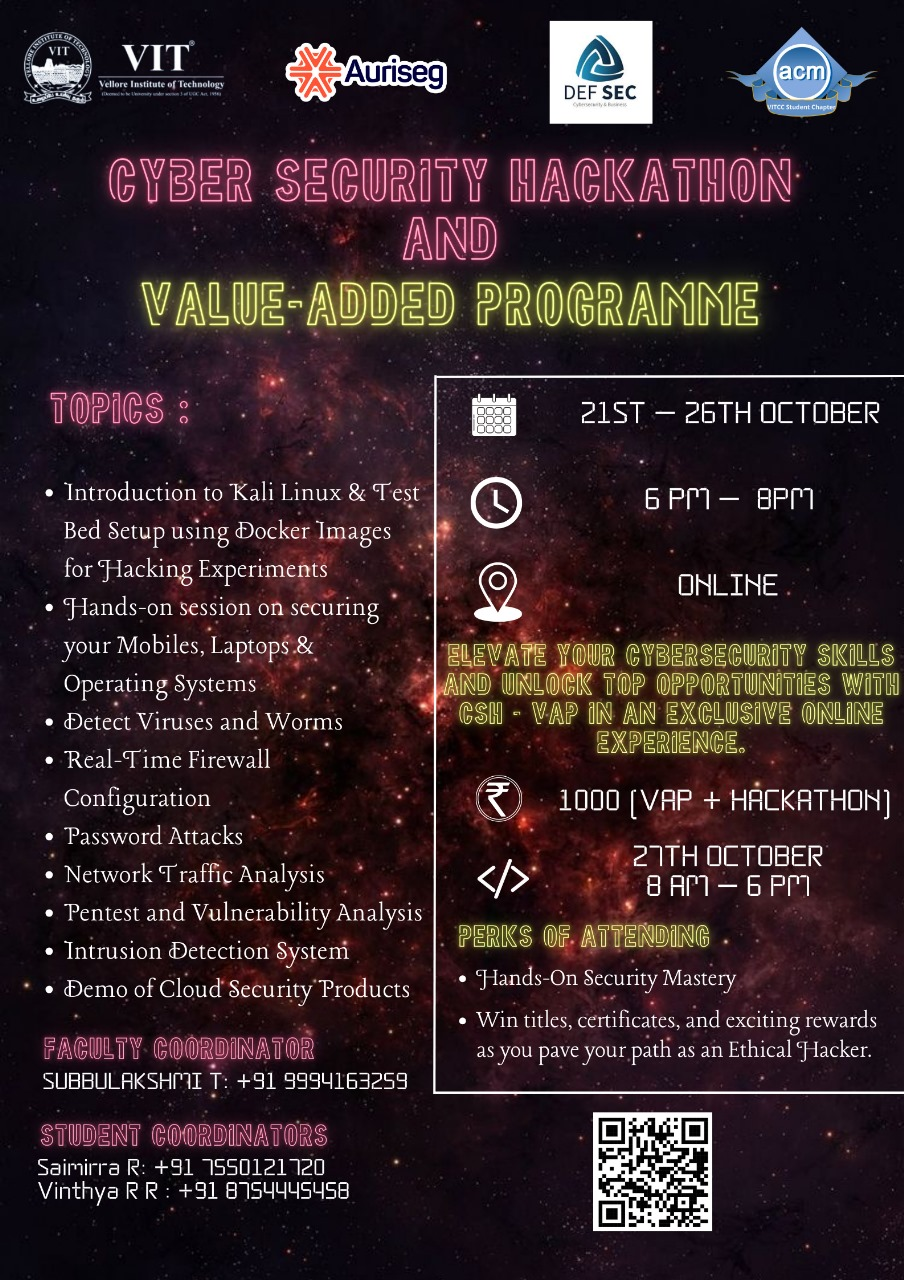
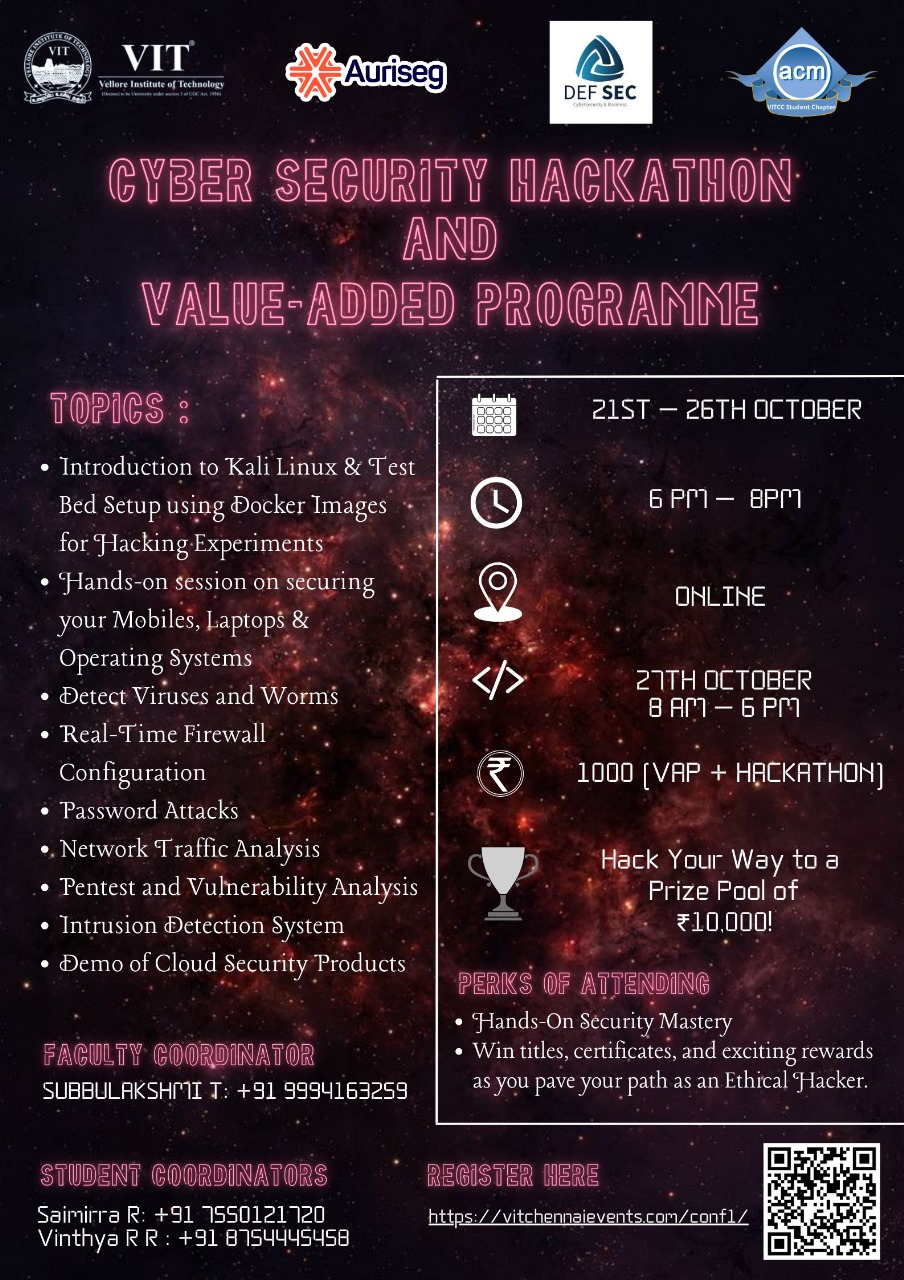
Updating Poster VAP

diff --git a/EventsDetails/cybermonth.html b/EventsDetails/cybermonth.html
@@ -33,25 +33,55 @@
                     class="fa fa-bars"></i></button></div>
     </nav>
     <section class="my-5 py-5">
-        <h1 class="display-1 fw-bold flash animated" style="text-align: center;">Cyber Security Awareness Month</h1>
+        <h3 class="display-1 fw-bold flash animated" style="text-align: center;">Cyber Security Awareness Month</h3>
+        <p data-aos="fade-left" style="text-align: center;"><strong>🚨 Calling all Tech Enthusiasts and future Cybersecurity Experts! 🚨</strong></p>
         <div class="container">
             <div class="row">
-                <div class="col-md-12 text-center py-5" data-aos="fade"></div>
                 <div class="col">
                     <section class="clean-block clean-info dark">
                         <div class="container">
                             <div class="block-heading"></div>
-                            <div class="row align-items-center">
+                            <div class="align-items-center" style="margin-bottom: 50px;display: flex; flex-direction: column;">
                                 <div class="col-md-6" style="text-align: center; margin:40px 0;"><img class="img-thumbnail"
                                         data-aos="fade-right" src="../images/Poster/vap24.jpg"
                                         style="width: 395px;">
                                 </div>
                                 <div class="col-md-6">
                                     <div class="getting-started-info">
-                                        <p data-aos="fade-left" ><strong>Event Name: Value Added programme and Hackathon<br>
-                                        Venue: Online<br>
-                                        Date: 21st - 26th October, 2024<br>
-                                        Time: 6:00 PM - 8:00 PM</strong></p>
+                                        <p data-aos="fade-left" style="width: 80vw; position: relative; right: 280px;" ><strong>
+                                            The ACM Student Chapter is excited to present the Cyber Security Hackathon & Value Added Program (VAP) - your gateway to becoming an ethical hacking pro! <br>
+                                            Whether you’re looking to boost your cybersecurity skills or win exciting rewards and certificates, this event is for you. Sharpen your expertise and prepare for top career opportunities in the cybersecurity field! 🚀
+                                            <br><br>
+                                            Perks of Attending:<br>
+                                            💻 Hands-on sessions that teach you the tools of the trade – from Kali Linux, Docker, and XVWA to AWS, Metasploitable, and more!
+                                            <br> 🎯 Learn to secure your devices (mobiles, laptops), detect viruses and worms, and perform real-time firewall configurations.
+                                            <br>🔓 Sharpen your skills in password attacks, network traffic analysis, pentesting, and vulnerability analysis.
+                                            <br>☁ Exclusive demo on Cloud Security Products!
+                                            <br><br>
+                                            What You'll learn?<br>
+                                            ✅ Kali Linux & Test Bed Setup using Docker for hacking experiments<br>
+                                            ✅ How to secure your OS and devices<br>
+                                            ✅ Firewall Configuration & Virus Detection<br>
+                                            ✅ Password Attacks & Network Traffic Analysis<br>
+                                            ✅ Pentesting, Vulnerability Analysis, and Intrusion Detection<br>
+                                            ✅ Hands-on Cloud Security Demo<br><br>
+                                            
+                                            Event Dates and Timings:<br>
+                                            📅 VAP (21st - 26th October): 6PM to 8PM<br>
+                                            📅 Hackathon (27th October): 8AM to 6PM<br>
+                                            💸 Registration Fee: Rs 1000 (VAP + Hackathon)<br><br>
+                                            
+                                            Meet Your Coordinators:<br>
+                                            Saimirra R: +91 7550121720<br>
+                                            Vinthya R R: +91 8754445458<br><br>
+                                            
+                                            Teacher Coordinator:<br>
+                                            Subbulakshmi T: +91 9994163259<br>
+                                            <br>
+                                            Scan the QR code or click on the link below to head to the VIT Chennai Events Page.<br>
+                                            <br>
+                                            Gear up for unbeatable learning and awesome rewards – Reserve your Spot now and let’s hack the future together!
+                                            </p>
                                         <a class="btn btn-dark" role="button" data-aos="fade-left"
                                         href="https://www.vitchennaievents.com/conf1/index.php?eventid=2295"
                                         target="_blank"
@@ -89,12 +119,12 @@
                                 </div>
                                 <div class="col-md-6">
                                     <div class="getting-started-info">
-                                        <p data-aos="fade-left" style="margin: 30px 0px"><strong>Event Name: Guest Lecture<br>
-                                            Resource Person: Pratik<br>
-                                            Designation: Grade 11 student,Top Indian Ethical Hacker, Consultant for Cyber Crime Police<br>
-                                            Title: Behind the Screens: Real World cyber security<br>
-                                            Venue: AB 3 - 701<br>
-                                            Date: 9th October, 2024<br>
+                                        <p data-aos="fade-left" style="margin: 30px 0px"><strong>Event Name: Guest Lecture<br><br>
+                                            Resource Person: Pratik<br><br>
+                                            Designation: Grade 11 student,Top Indian Ethical Hacker, Consultant for Cyber Crime Police<br><br>
+                                            Title: Behind the Screens: Real World cyber security<br><br>
+                                            Venue: AB 3 - 701<br><br>
+                                            Date: 9th October, 2024<br><br>
                                             Time: 11:40 AM - 12:30 PM</strong></p>
                                         <a class="btn btn-dark" role="button" data-aos="fade-left"
                                         href="https://forms.gle/rVHzMs93MQJ9J1vw9"
